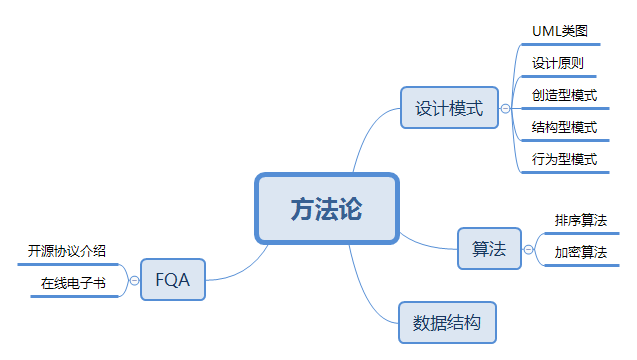
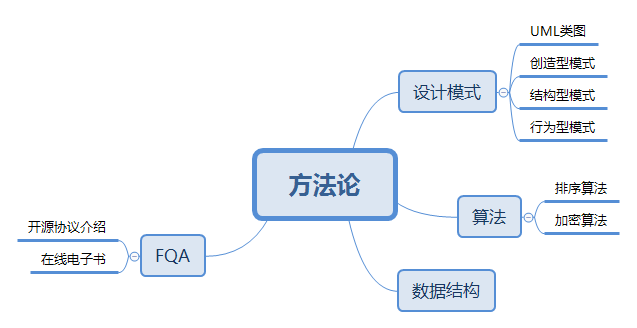
重新整理设计模式内容

diff --git a/src/components/blog/methodology/MethodologyIndex.vue b/src/components/blog/methodology/MethodologyIndex.vue
@@ -39,21 +39,19 @@
 <script>
 
     import HomePage from './MethodologyHome'
-    import DecoratorMode from './designpattern/DecoratorMode.md';
-    import FactoryAndSingletonsMode from './designpattern/FactoryAndSingletonsMode.md';
-    import ObserverMode from './designpattern/ObserverMode.md';
-    import StrategyMode from './designpattern/StrategyMode.md';
     import OpenSourceLicense from './fqa/OpenSourceLicense.md';
     import EbookOnline from './fqa/EbookOnline.md';
     import UMLClassDi from './designpattern/UMLClassDi.md';
+    import CreationMode from './designpattern/CreationMode.md';
+    import StructuralMode from './designpattern/StructuralMode.md';
+    import BehavioralMode from './designpattern/BehavioralMode.md';
 
 
     export default {
         name: "methodologyIndex",
         components:{
             HomePage,
-            DecoratorMode, FactoryAndSingletonsMode, ObserverMode, StrategyMode,
-            OpenSourceLicense, EbookOnline, UMLClassDi
+            OpenSourceLicense, EbookOnline, UMLClassDi, CreationMode, StructuralMode, BehavioralMode
         },
         data(){
             return {
@@ -65,10 +63,9 @@
                         title:'设计模式',
                         data:[
                             {title:'UML类图', class:'UMLClassDi', id:"designpattern" },
-                            {title:'策略模式', class:'StrategyMode' },
-                            {title:'观察者模式', class:'ObserverMode' },
-                            {title:'装饰者模式', class:'DecoratorMode' },
-                            {title:'工厂模式和单例模式', class:'FactoryAndSingletonsMode' }
+                            {title:'创建型模式', class:'CreationMode'},
+                            {title:'结构型模式', class:'StructuralMode' },
+                            {title:'行为型模式', class:'BehavioralMode' }
                         ]
                     }, {
                         title:'算法',

diff --git a/src/components/blog/methodology/designpattern/BehavioralMode.md b/src/components/blog/methodology/designpattern/BehavioralMode.md
@@ -1,6 +1,75 @@
-## 策略模式
 
-> 节选自《Head First 设计模式》+自力更生
+- 模板方法（Template Method）模式
+- [策略（Strategy）模式](#t2)
+- 命令（Command）模式
+- 职责链（Chain of Responsibility）模式
+- 状态（State）模式
+- [观察者（Observer）模式](#t6)
+- 中介者（Mediator）模式
+- 迭代器（Iterator）模式
+- 访问者（Visitor）模式
+- 备忘录（Memento）模式
+- 解释器（Interpreter）模式
+
+<br>
+
+### <span id="t2">策略模式</span>
+
+> 策略模式定义了算法族，分别封装起来，让它们之间可以相互替换，此设计模式让算法的变化独立于使用算法的客户。    ------《Head First 设计模式》 P.24
+
+个人理解：对于某一个算法或者业务，预先实现不同的方案，通过接口，调用不同实例，来获得不同的结果。
+
+缺点也非常明显，所有的算法都是唯一确定的，都是事先已经实现的，策略模式只是在选择。
+
+<img src="@/assets/blog/img/StrategyMode1.png"/>
+
+
+简单代码实现：
+
+```java
+//---------抽象类，父类----------------------------------------------------------------
+abstract class Duck {
+	protected FlyBehavior flyBehavior;
+	
+	public void swim() {};
+	
+	public void fly() {
+		flyBehavior.fly();
+	};
+	
+	public FlyBehavior getFlyBehavior() { return flyBehavior; }
+	public void setFlyBehavior(FlyBehavior flyBehavior) { this.flyBehavior = flyBehavior; }
+	
+}
+//---------算法接口----------------------------------------------------------------------
+interface FlyBehavior {
+	void fly();
+}
+//---------算法实现----------------------------------------------------------------------
+class FlyWithRocket implements FlyBehavior {
+	@Override
+	public void fly() {
+		System.out.println("火箭飞行");
+	}
+}
+
+```
+
+
+
+```java
+class GreenHeadDuck extends Duck {
+	public static void main(String[] args) {
+		GreenHeadDuck duck = new GreenHeadDuck();
+		duck.setFlyBehavior(new FlyWithRocket());
+		duck.fly();
+	}
+}
+```
+
+<br>
+
+### <span id="t6">观察者模式</span>
 
 观察者模式定义了对象之间的一对多依赖，当一个对象状态改变时，它的依赖者都会收到通知并自动更新。
 
@@ -12,7 +81,7 @@
 
 实际关系类比 报社自动送订阅app推送。Java.util已经内置了这个设计模式，在文章后半段将会讲解。
 
-### 基本原理
+#### 基本原理
 
 <img src="@/assets/blog/img/ObserverMode1.png"/>
 
@@ -73,13 +142,13 @@ public class OneObserver implements Observer {
 }
 ```
 
-### java.util观察者模式
+#### java.util观察者模式
 
 
 
 java.util 实现的观察者模式更加安全，并实现了基本功能，并进行了拓展。
 
-#### 推模型和拉模型
+##### 推模型和拉模型
 
 - 推模型 <br>
   推模型由主题主动推送更新数据到观察者，不论观察者是否需要，主题都会强制推送。传递数据可以是全部或者部分。
@@ -155,3 +224,4 @@ class JavaSubject extends Observable{
 	            ((Observer)arrLocal[i]).update(this, arg);
 	    }
 ```
+

diff --git a/src/components/blog/methodology/designpattern/CreationMode.md b/src/components/blog/methodology/designpattern/CreationMode.md
@@ -1,49 +1,17 @@
-### 工厂模式
 
-> 节选自《Head First 设计模式》+ 菜鸟教程
-
-
-这个设计模式相对简单，所以就简略写下，毕竟不能白整理，总得留下点什么。
-
-
-> 定义了一个创建对象的接口，但由子类决定要实例化的类是哪一个。工厂方法让类把实例化推迟到子类。
-
-个人理解：存在生产和产品两个接口，工厂实现生产接口，重写生产方法，并返回具体产品，不同工厂返回不同的产品实现类。
-
-<img src="@/assets/blog/img/FactoryAndSingletonsMode.png"/>
-
-产品：
-
-```java
-//产品，工厂生产的产品
-abstract class Product {
-	public String name;
-}
-//实际产品，也可以直接用父类
-class ConcreteProduct extends Product{
-}
-```
-
-生产：
-
-```java
-interface Creator {
-	//生产接口，制造产品
-	Product productSomething();
-}
-//实际生产者，工厂
-class ConcreteCreator implements Creator{
-	@Override
-	public Product productSomething() {
-		Product product = new ConcreteProduct();
-		product.name = "生产一个具体产品";
-		return product;
-	}
-}
-```
+- [单例（Singleton）模式](#t1)
+- 原型（Prototype）模式
+- 工厂方法（FactoryMethod）模式
+- 抽象工厂（AbstractFactory）模式
+- 建造者（Builder）模式
 
 
-### 单例模式
+创建型模式的主要关注点是“怎样创建对象？”，它的主要特点是“将对象的创建与使用分离”。
+这样可以降低系统的耦合度，使用者不需要关注对象的创建细节，对象的创建由相关的工厂来完成。就像我们去商场购买商品时，不需要知道商品是怎么生产出来一样，因为它们由专门的厂商生产。
+
+<br>
+
+### <span id="t1">单例模式</span>
 
 > 单例模式确保了一个类只有一个实例，并提供了一个全局访问点。 
 
@@ -120,3 +88,47 @@ public class Singleton {
 
 
 
+
+
+
+<br>
+
+### 工厂模式
+
+这个设计模式相对简单，所以就简略写下，毕竟不能白整理，总得留下点什么。
+
+> 定义了一个创建对象的接口，但由子类决定要实例化的类是哪一个。工厂方法让类把实例化推迟到子类。
+
+个人理解：存在生产和产品两个接口，工厂实现生产接口，重写生产方法，并返回具体产品，不同工厂返回不同的产品实现类。
+
+<img src="@/assets/blog/img/FactoryAndSingletonsMode.png"/>
+
+产品：
+
+```java
+//产品，工厂生产的产品
+abstract class Product {
+	public String name;
+}
+//实际产品，也可以直接用父类
+class ConcreteProduct extends Product{
+}
+```
+
+生产：
+
+```java
+interface Creator {
+	//生产接口，制造产品
+	Product productSomething();
+}
+//实际生产者，工厂
+class ConcreteCreator implements Creator{
+	@Override
+	public Product productSomething() {
+		Product product = new ConcreteProduct();
+		product.name = "生产一个具体产品";
+		return product;
+	}
+}
+```

diff --git a/src/components/blog/methodology/designpattern/StructuralMode.md b/src/components/blog/methodology/designpattern/StructuralMode.md
@@ -1,7 +1,14 @@
-## 装饰者模式
 
-> 节选自《Head First 设计模式》+ 菜鸟教程
+- 代理（Proxy）模式
+- 适配器（Adapter）模式
+- 桥接（Bridge）模式
+- [装饰者（Decorator）模式](#t4)
+- 外观（Facade）模式
+- 享元（Flyweight）模式
+- 组合（Composite）模式
 
+
+### <span id="t4">装饰者模式</span>
 
 > 装饰者模式动态地将责任附加到对象上。若要扩展功能，装饰者提供了比继承更有弹性的替代方案。
 
@@ -77,6 +84,8 @@ class RedShapeDecorator extends ShapeDecorator {
 private static final Logger logger = LoggerFactory.getLogger(Component.class);
 logger.error(string);
 ```
+
+
 
 
 
